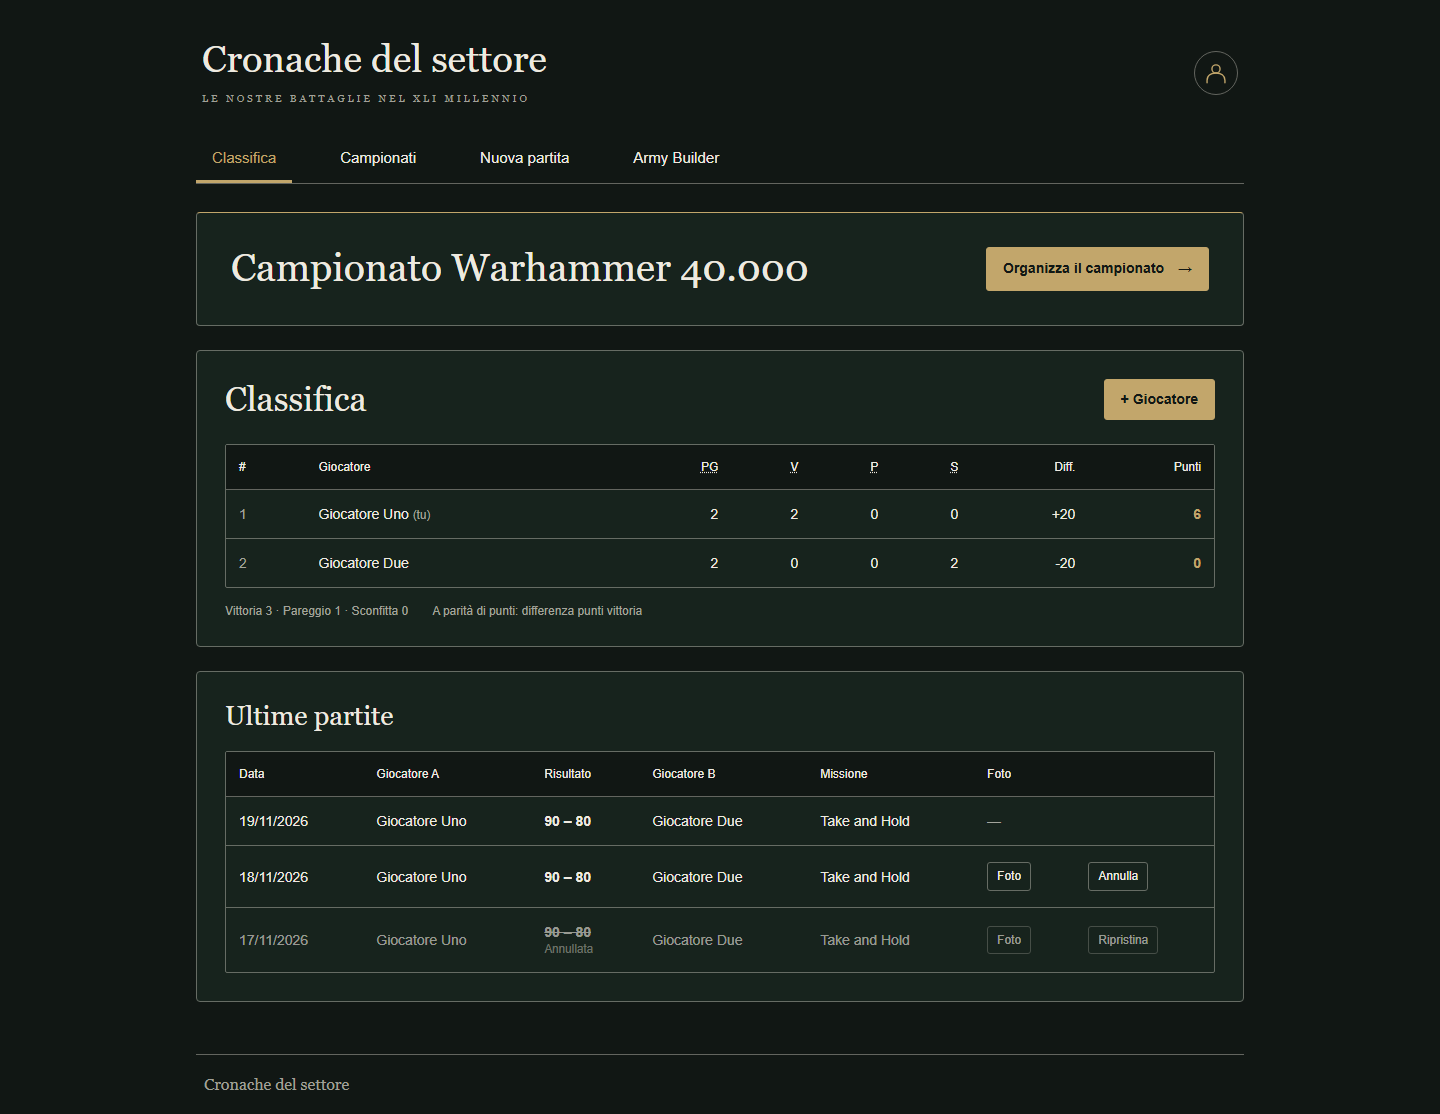
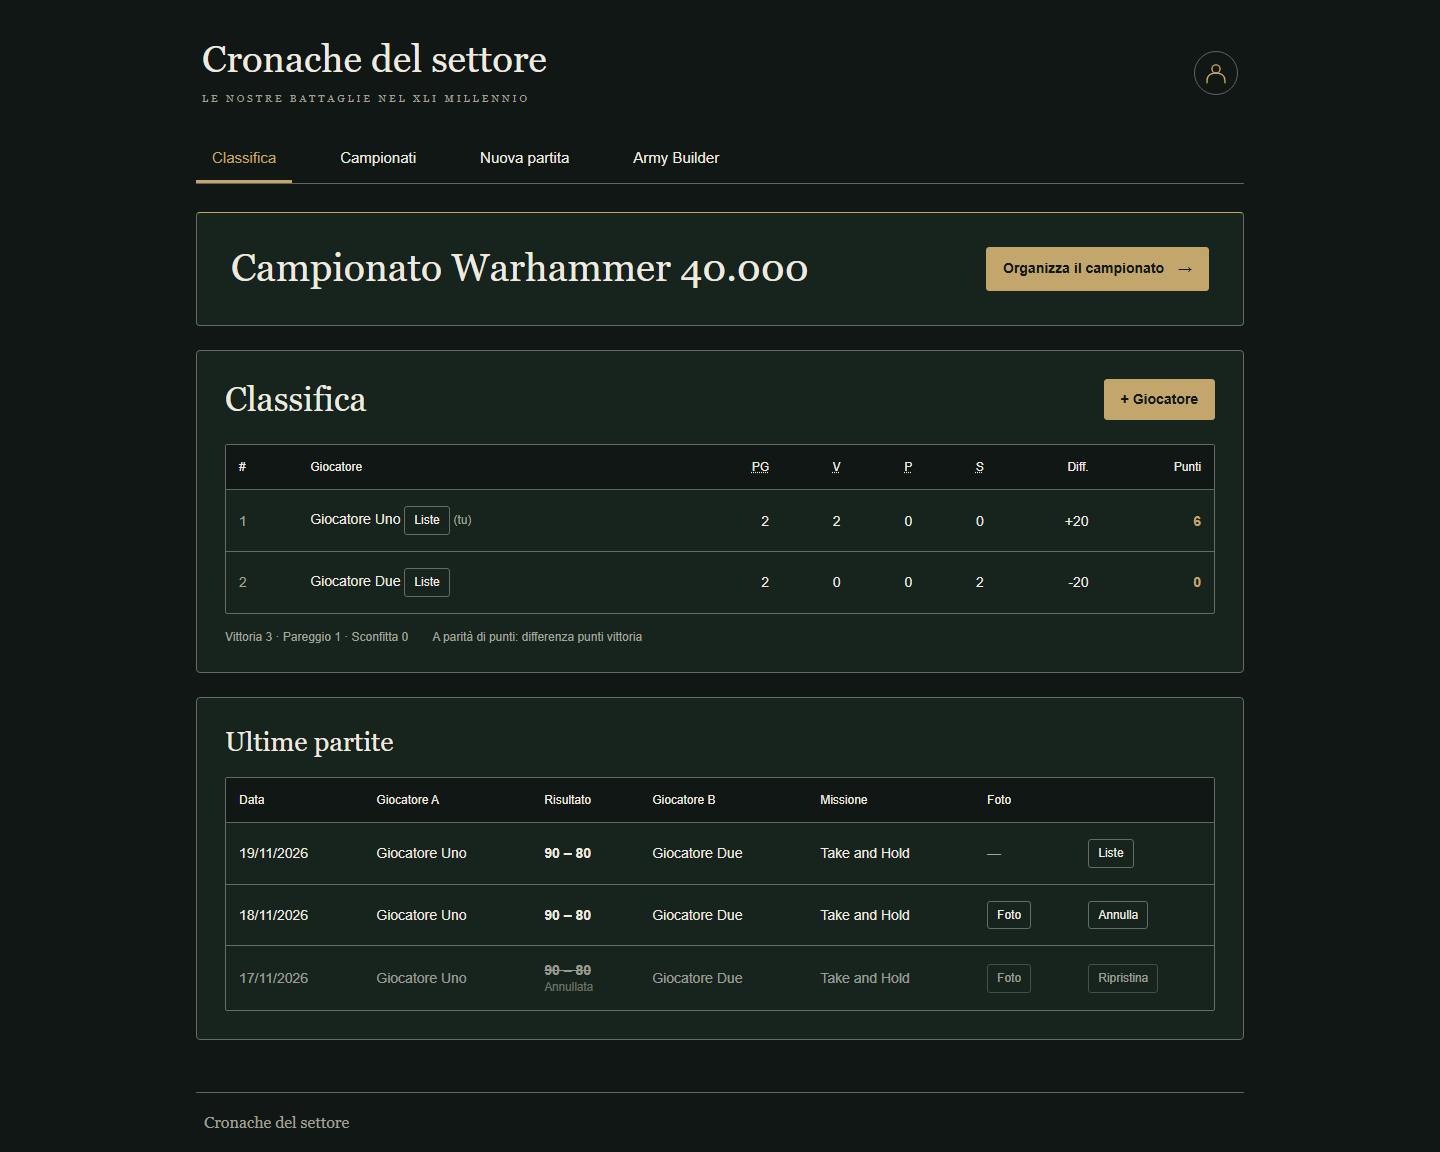
Mostra le liste consegnate in campionato e nelle partite concluse

diff --git a/Cangiolone.com/app.js b/Cangiolone.com/app.js
@@ -398,10 +398,44 @@ function profilePage(onboarding=false){
   };
 }
 
+function sharedArmyLists(){
+  return state.readableLists||[];
+}
+
+function openArmyLists(lists,title){
+  document.getElementById('army-list-reader')?.close();
+  const reader=document.createElement('dialog');
+  reader.id='army-list-reader';reader.className='army-list-reader';
+  reader.setAttribute('aria-labelledby','army-reader-title');
+  reader.innerHTML=`<div class="reader-head"><h2 id="army-reader-title">${esc(title)}</h2><button type="button" data-close>Chiudi</button></div><label>Lista<select aria-label="Scegli la lista">${lists.map((list,index)=>`<option value="${index}">${esc(name(list.player))} · ${esc(list.title)}</option>`).join('')}</select></label><p role="status"></p><pre tabindex="0" aria-label="Testo della lista" hidden></pre><a hidden>Scarica TXT</a>`;
+  document.body.append(reader);
+  const select=reader.querySelector('select'),status=reader.querySelector('[role="status"]'),text=reader.querySelector('pre'),download=reader.querySelector('a');
+  let request;
+  async function load(){
+    request?.abort();const controller=new AbortController();request=controller;
+    text.textContent='';text.hidden=download.hidden=true;
+    const list=lists[Number(select.value)];
+    if(!list){status.textContent='Nessuna lista condivisa disponibile.';return;}
+    status.textContent='Caricamento della lista…';
+    try{
+      const response=await fetch(list.url,{signal:controller.signal});
+      if(!response.ok) throw new Error();
+      const content=await response.text();if(controller.signal.aborted)return;
+      text.textContent=content;text.hidden=download.hidden=false;download.href=list.url;status.textContent='';
+    }catch(error){if(!controller.signal.aborted)status.textContent='Lista non disponibile. Riprova.';}
+  }
+  select.onchange=load;
+  reader.querySelector('[data-close]').onclick=()=>reader.close();
+  reader.addEventListener('close',()=>{request?.abort();reader.remove();},{once:true});
+  reader.addEventListener('click',event=>{if(event.target!==reader)return;const box=reader.getBoundingClientRect();if(event.clientX<box.left||event.clientX>box.right||event.clientY<box.top||event.clientY>box.bottom)reader.close();});
+  reader.showModal();load();
+}
+
 function recentMatchRow(match){
   const photo=match.photo?`<button class="small-button" data-photo="${esc(match.photo)}" type="button" aria-label="Vedi foto della partita tra ${esc(name(match.a))} e ${esc(name(match.b))}">Foto</button>`:'<span class="muted" aria-label="Nessuna foto">—</span>';
   const canChange=!match.leagueLocked&&(state.user.admin||match.by===state.user.id);
-  return `<tr class="${match.void?'cancelled':''}"><td>${dateLabel(match.date)}</td><td>${esc(name(match.a))}</td><td><strong class="result">${match.scoreA} – ${match.scoreB}</strong>${match.void?'<br><small>Annullata</small>':''}</td><td>${esc(name(match.b))}</td><td>${esc(match.mission||'—')}</td><td class="match-photo">${photo}</td><td><div class="match-actions">${canChange?`<button class="small-button" data-void="${esc(match.id)}" data-value="${!match.void}" type="button">${match.void?'Ripristina':'Annulla'}</button>`:''}</div></td></tr>`;
+  const lists=(state.readableLists||[]).some(list=>list.match===match.id)?`<button class="small-button" type="button" data-match-lists="${esc(match.id)}">Liste</button>`:'';
+  return `<tr class="${match.void?'cancelled':''}"><td>${dateLabel(match.date)}</td><td>${esc(name(match.a))}</td><td><strong class="result">${match.scoreA} – ${match.scoreB}</strong>${match.void?'<br><small>Annullata</small>':''}</td><td>${esc(name(match.b))}</td><td>${esc(match.mission||'—')}</td><td class="match-photo">${photo}</td><td><div class="match-actions">${lists}${canChange?`<button class="small-button" data-void="${esc(match.id)}" data-value="${!match.void}" type="button">${match.void?'Ripristina':'Annulla'}</button>`:''}</div></td></tr>`;
 }
 
 
@@ -1007,7 +1041,7 @@ function standings(){
 
                       <td>
 
-                        ${esc(u.name)}
+                        ${esc(u.name)} ${sharedArmyLists().some(list=>list.player===u.id)?`<button class="small-button" type="button" data-player-lists="${esc(u.id)}">Liste</button>`:''}
 
                         ${
 
@@ -1254,6 +1288,9 @@ function standings(){
   `;
 
 
+
+  document.querySelectorAll('[data-player-lists]').forEach(button=>button.onclick=()=>openArmyLists(sharedArmyLists().filter(list=>list.player===button.dataset.playerLists),name(button.dataset.playerLists)));
+  document.querySelectorAll('[data-match-lists]').forEach(button=>button.onclick=()=>openArmyLists((state.readableLists||[]).filter(list=>list.match===button.dataset.matchLists),'Liste della partita'));
 
   document
 

diff --git a/Cangiolone.com/campionato.js b/Cangiolone.com/campionato.js
@@ -148,6 +148,7 @@ function renderStandings() {
 }
 
 function listPanel(fixture) {
+  if (!mine(fixture)) return fixture.listsReadable ? `<div class="fixture-block"><h3>Liste esercito</h3><div class="action-row">${[fixture.a,fixture.b].map(id=>`<button type="button" class="secondary" data-lineup="${id}">Lista di ${player(id)}</button>`).join('')}</div></div>` : '';
   const { mine: submitted, opponent } = fixture.lineups;
   if (submitted && opponent) {
     const other = fixture.a === state.user.id ? fixture.b : fixture.a;
@@ -161,7 +162,7 @@ function listPanel(fixture) {
     <h3>Liste esercito</h3>
     <p>${submitted ? 'La tua lista è stata consegnata. In attesa dell’avversario.' : opponent
       ? 'L’avversario ha consegnato. Carica la tua lista per sbloccare entrambe.'
-      : 'Le liste saranno visibili ai due giocatori dopo entrambe le consegne.'}</p>
+      : 'Le liste saranno visibili a tutti i giocatori dopo entrambe le consegne.'}</p>
     <form class="lineup-form">
       <label>Lista dal tuo List Builder<select name="builderArmyId" ${builderListsLoaded?'':'disabled'}>${builderListOptions()}</select></label>
       <p class="fine-print">Puoi consegnare una lista salvata nel tuo profilo. Al momento della consegna ne viene conservata una copia: le successive modifiche nel builder non cambiano la lista consegnata.</p>
@@ -215,10 +216,10 @@ function fixtureRow(fixture) {
   if (!playable(fixture)) {
     return `<div class="fixture row bye"><span>${player(fixture.a)}</span><span>Riposa</span></div>`;
   }
-  if (!mine(fixture)) return `<div class="fixture row">${contents}</div>`;
+  if (!mine(fixture) && !fixture.listsReadable) return `<div class="fixture row">${contents}</div>`;
   return `<details class="fixture" data-fixture="${fixture.id}"${fixture.id === openFixture ? ' open' : ''}>
     <summary class="row">${contents}<span class="expand" aria-hidden="true">+</span></summary>
-    ${listPanel(fixture)}${resultPanel(fixture)}
+    ${listPanel(fixture)}${mine(fixture)?resultPanel(fixture):''}
   </details>`;
 }
 
@@ -474,6 +475,7 @@ $('round').addEventListener('click', async event => {
 });
 
 $('lineup-close').addEventListener('click', () => $('lineup-reader').close());
+$('lineup-reader').addEventListener('click', event => { if(event.target===event.currentTarget) { const box=event.currentTarget.getBoundingClientRect();if(event.clientX<box.left||event.clientX>box.right||event.clientY<box.top||event.clientY>box.bottom) event.currentTarget.close(); } });
 $('lineup-reader').addEventListener('close', event => {
   if (!event.currentTarget.open) lineupRequest?.abort();
 });

diff --git a/Cangiolone.com/style.css b/Cangiolone.com/style.css
@@ -90,3 +90,4 @@
 .profile-footer{display:flex;justify-content:flex-end;border-top:1px solid var(--line);margin-top:24px;padding-top:20px}
 .match-photo{white-space:nowrap}
 @media(max-width:650px){.profile-heading{gap:12px}.profile-heading h1{font-size:25px}.profile-symbol{width:48px;height:48px}.profile-symbol svg{width:28px;height:28px}.profile-card{padding:16px}.profile-identity{align-items:start;flex-direction:column}}
+.army-list-reader{width:min(48rem,calc(100% - 2rem));max-height:85dvh;overflow:auto;background:var(--bg,#101813);color:var(--text,#eee);border:1px solid var(--gold,#bca56a);padding:1.25rem}.army-list-reader::backdrop{background:#0009}.army-list-reader .reader-head{display:flex;justify-content:space-between;align-items:center;gap:1rem}.army-list-reader h2{margin:0 0 1rem}.army-list-reader pre{white-space:pre-wrap;overflow-wrap:anywhere;font-size:.9rem;line-height:1.6;max-height:55dvh;overflow:auto}.army-list-reader select{width:100%;min-width:0}

diff --git a/Cangiolone.com/league.php b/Cangiolone.com/league.php
@@ -86,6 +86,7 @@ function leagueState(array $db, array $me, ?string $id=null, bool $create=false)
             'result'=>$match ? array_intersect_key($match,array_flip(['scoreA','scoreB','date','mission','void'])) : null,
             'pending'=>$mine ? $pending : null,
             'awaiting'=>$pending!==null,
+            'listsReadable'=>isset($lineups[$fixture['a']],$lineups[$fixture['b']]),
             'lineups'=>$mine ? [
                 'mine'=>isset($lineups[$myId]),
                 'opponent'=>isset($lineups[$fixture['a']===$myId ? $fixture['b'] : $fixture['a']])
@@ -112,11 +113,34 @@ function leagueFixture(array $fixtures, string $id, string $player): int {
     return $index;
 }
 
+/** Only metadata is shared here; list text is read lazily through the authenticated endpoint. */
+function leagueReadableLists(array $db): array {
+    $submitted=[];
+    foreach($db['league_lineups'] as $list) $submitted[$list['fixture']][$list['player']]=true;
+    $leagues=array_column($db['league'],null,'id');
+    $matches=array_column($db['matches'],null,'id');
+    $result=[];
+    foreach($db['league_fixtures'] as $fixture) {
+        $match=$matches[$fixture['match_id']]??null;
+        if($fixture['b']===null || $match===null || $match['void']) continue;
+        if(!isset($submitted[$fixture['id']][$fixture['a']],$submitted[$fixture['id']][$fixture['b']])) continue;
+        foreach([$fixture['a'],$fixture['b']] as $owner) $result[]=[
+            'player'=>$owner,'fixture'=>$fixture['id'],'match'=>$fixture['match_id'],
+            'title'=>($leagues[$fixture['league_id']]['name']??'Campionato').' · Turno '.$fixture['round'],
+            'url'=>'api.php?action=leagueDownload&fixture='.rawurlencode($fixture['id']).'&player='.rawurlencode($owner)
+        ];
+    }
+    return $result;
+}
+
 function leagueDownload(SectorStorage $storage, array $db, string $player): never {
     $id=$_GET['fixture']??'';
     $owner=$_GET['player']??'';
     if(!is_string($id) || !is_string($owner)) fail('Lista non trovata.',404);
-    $fixture=$db['league_fixtures'][leagueFixture($db['league_fixtures'],$id,$player)];
+    $index=array_search($id,array_column($db['league_fixtures'],'id'),true);
+    if($index===false || $db['league_fixtures'][$index]['b']===null) fail('Incontro non trovato.',404);
+    $fixture=$db['league_fixtures'][$index];
+    if(!in_array($owner,[$fixture['a'],$fixture['b']],true)) fail('Lista non trovata.',404);
     $lists=array_column($db['league_lineups'],null,'id');
     $requested=$lists[$id.':'.$owner]??null;
     if(!$requested) fail('Lista non trovata.',404);

diff --git a/Cangiolone.com/api.php b/Cangiolone.com/api.php
@@ -263,9 +263,10 @@ if($action==='state') {
         return $match;
     },$db['matches']);
 
+    $readableLists=leagueReadableLists($db);
     $profile=mailProfile($db,$me['id']);
     $needsEmail=$mail!==null && ($_SESSION['askEmail']??false) && $profile['email']===null && $profile['pending_email']===null;
-    result(['mailEnabled'=>$mail!==null,'needsEmail'=>$needsEmail,'account'=>['email'=>$profile['email'],'pendingEmail'=>$profile['pending_email']],'user'=>publicUser($me),'csrf'=>$_SESSION['csrf'],'users'=>array_map('publicUser',$db['users']),'matches'=>$matches,'league'=>$leagues[0]??null,'leagues'=>$leagues,'lists'=>array_map(fn($l)=>array_diff_key($l,['text'=>1]),$db['lists'])]);
+    result(['mailEnabled'=>$mail!==null,'needsEmail'=>$needsEmail,'account'=>['email'=>$profile['email'],'pendingEmail'=>$profile['pending_email']],'user'=>publicUser($me),'csrf'=>$_SESSION['csrf'],'users'=>array_map('publicUser',$db['users']),'matches'=>$matches,'league'=>$leagues[0]??null,'leagues'=>$leagues,'readableLists'=>$readableLists,'lists'=>array_map(fn($l)=>array_diff_key($l,['text'=>1]),$db['lists'])]);
 }
 if($action==='league' || $action==='leagueDownload') {
     if(!$me) fail('Accedi per consultare il campionato.',401);

diff --git a/Cangiolone.com/storage.php b/Cangiolone.com/storage.php
@@ -187,7 +187,7 @@ final class SectorStorage {
     public function load(string $scope='archive'): array {
         $keys=match($scope) {
             'league'=>['users'=>'id','matches'=>'id']+self::LEAGUE_KEYS,
-            'state'=>self::KEYS+array_intersect_key(self::LEAGUE_KEYS,['league'=>true,'league_members'=>true,'league_fixtures'=>true]),
+            'state'=>self::KEYS+self::LEAGUE_KEYS,
             default=>self::KEYS
         };
         $data=[];

diff --git a/docs/profilo-foto.md b/docs/profilo-foto.md
@@ -13,3 +13,11 @@ In Ultime partite, Foto è una colonna autonoma. I comandi Annulla/Ripristina so
 Verifiche: 38 test pertinenti passati (profilo, temi e regressione HTTP in ambiente SQLite isolato). Prova browser locale con fixture: profilo a390pixel e tabella a1440, interazioni dei temi/cambio password, form verifica assente per email confermata, sette colonne/celle coerenti e assenza di overflow orizzontale. Non verificati Safari fisico o hosting IIS/MySQL.
 
 File applicativi modificati: app.js, style.css, campionato.php e campionato.css. Nessuna modifica a database, configurazione o file del builder. Il codice è da distribuire solo quando richiesto; non usare il pacchetto FTPS del builder per queste modifiche.
+
+## Lettura delle liste
+
+La classifica generale ora mostra un pulsante Liste accanto al giocatore e nelle azioni delle sue partite di campionato concluse. Apre un popup di testo, con scelta della lista e download TXT: non apre il builder. Vengono mostrate le copie consegnate per incontri con risultato confermato e non annullato, non le bozze private del builder. Se non ci sono copie consultabili, il pulsante non compare. Le vecchie liste condivise senza collegamento a una partita non sono incluse in questa nuova vista.
+
+Nel calendario del campionato tutti gli utenti autenticati possono leggere entrambe le liste appena entrambi i giocatori le hanno consegnate, anche prima del risultato. Una sola consegna rimane nascosta. La home non anticipa queste liste: le indicizza solo dopo la conferma del risultato. Le copie restano immutabili rispetto a successive modifiche o eliminazioni delle armate nel builder. Leggere un incontro altrui non permette di consegnare liste, proporre o confermare risultati per quell'incontro.
+
+Questa aggiunta modifica anche api.php, league.php, storage.php e campionato.js; non richiede migrazioni o nuovi pacchetti. Lo stato generale carica soltanto metadati delle consegne, mentre il testo viene richiesto all'apertura del popup. Restano richiesti login e controlli sulle due consegne nell'endpoint di lettura.

diff --git a/tests/README.md b/tests/README.md
@@ -4,6 +4,8 @@ Asset checks cover content-hashed JS/CSS URLs on both entry pages, changes with 
 
 General site/profile checks: `node --test tests/site-profile.test.cjs tests/theme.test.cjs tests/regression.test.cjs`. They cover the verified/pending email states, Profile header icon, logout from Profile, removed legacy Lists navigation and redirect, escaping, and seven aligned recent-match cells with separate photo/actions columns. The legacy list API and league lineups remain covered by HTTP regressions; hiding the old page does not remove stored data.
 
+The same suite covers read-only list links on standings and recent matches, observer access to league lists after both submissions, no participant controls for observers, and homepage indexing only after a confirmed, non-void result. Saved builder drafts remain owner-only; submitted snapshots survive builder edits/deletion. A single submission and anonymous requests remain protected.
+
 `builder-loadout-rules.test.cjs` / `loadout-rules-model.php` cover bundle consumption, independent row quotas, all-model swaps, footnote thresholds, locked and incompatible equipment, optional slots, numbered bearers, reverse-order dependencies, shared replace-or-add limits and the verified missing plasma profiles. Optional model allocation is preserved through API save/defaults in `automation-model.php`; tampered counts are rejected. Include `tests/builder-loadout-rules.test.cjs` in the full command below.
 
 Latest refinement checks cover mandatory Warlord defaults and server validation, collapsed categories and search, independent Build vs combined Play sheets, dismissible errors that preserve validation, backdrop dismissal and the compact options menu for fixed units. The units export includes army metadata and selected upgrades while omitting weapon details.
